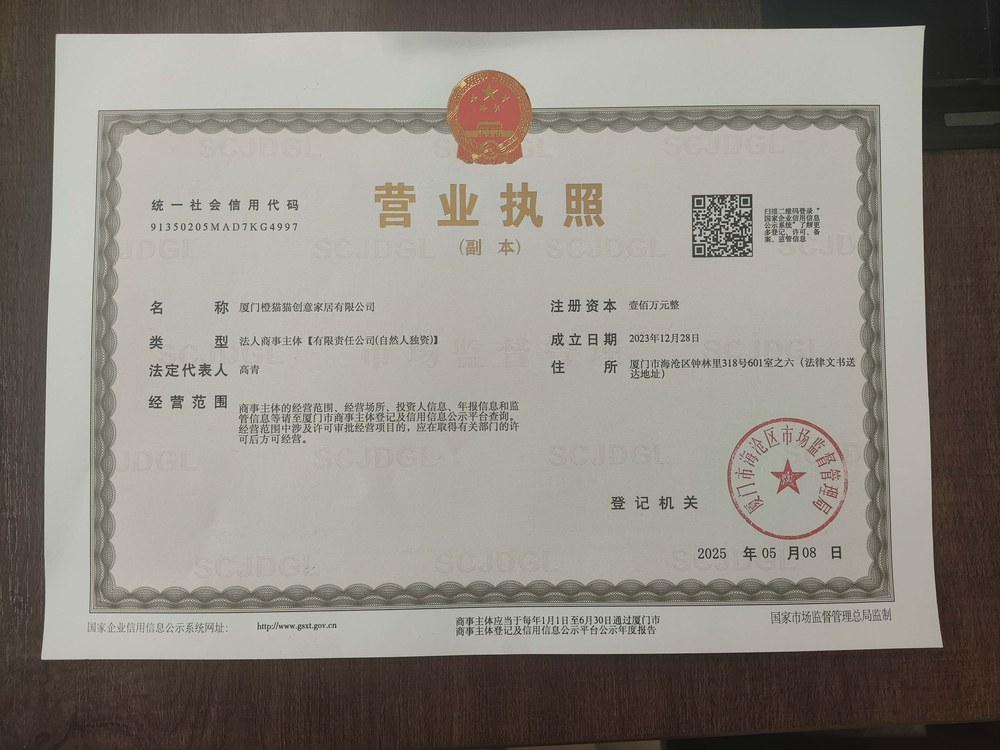
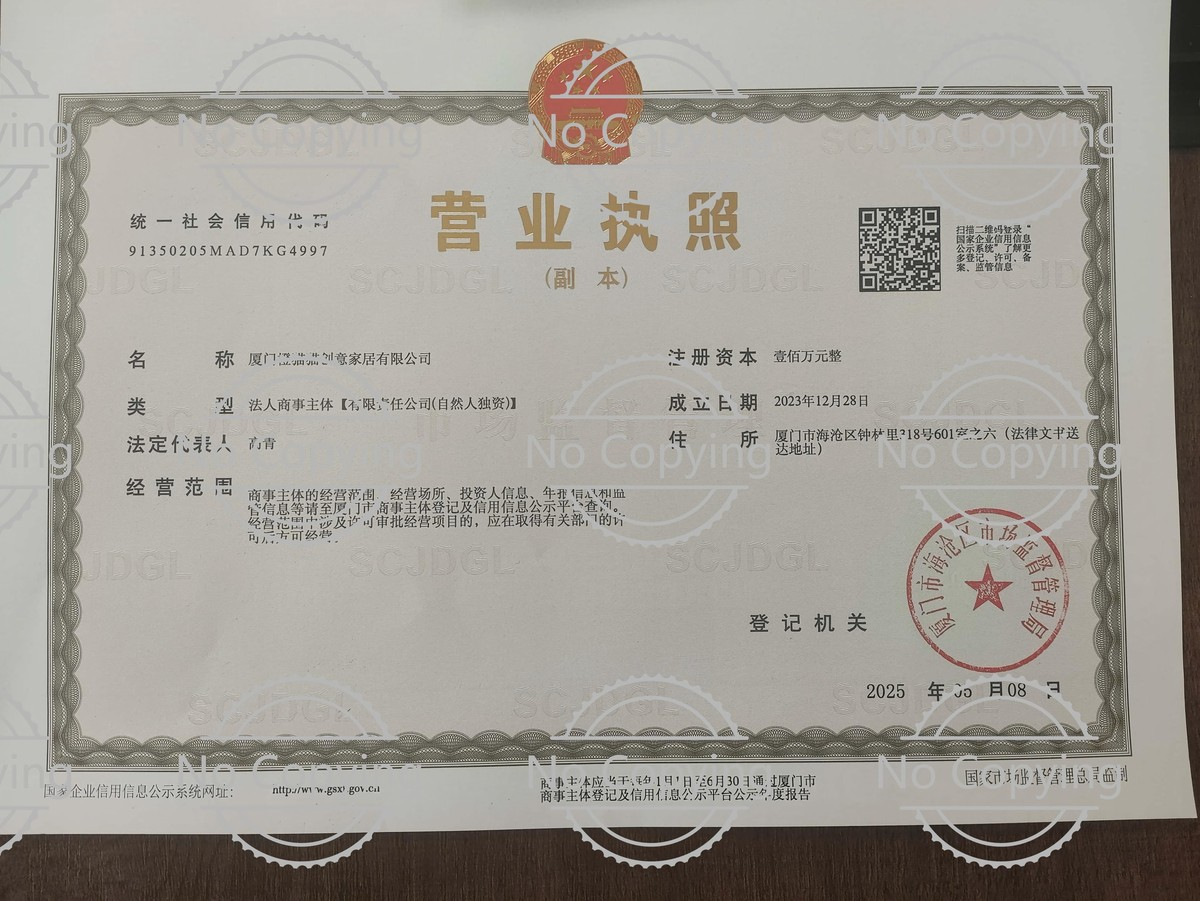
Replace hero and licence images

diff --git a/src/app/page.tsx b/src/app/page.tsx
@@ -24,7 +24,7 @@ export async function generateMetadata() {
     keywords:
       'quartz clock manufacturer, OEM clock factory, wholesale wall clocks, China clock supplier, custom quartz clocks',
     path: '/',
-    image: '/hero-clocks.png'
+    image: '/hero-clocks.jpg'
   });
 }
 
@@ -72,7 +72,7 @@ export default async function HomePage() {
               </p>
             </div>
             <div className="hero-img">
-              <img src="/hero-clocks.png" alt="Assorted quartz wall clocks manufactured by Badoudao" width={1536} height={1024} />
+              <img src="/hero-clocks.jpg" alt="Quartz wall clocks we manufacture: pendulum, wood, metal, resin and novelty designs" width={1400} height={788} />
             </div>
           </div>
         </section>
@@ -163,7 +163,7 @@ export default async function HomePage() {
               </p>
             </div>
             <div className="hero-img">
-              <img src="/hero-clocks.png" alt="Badoudao clock production" width={1536} height={1024} />
+              <img src="/workshop-floor.jpg" alt="Our assembly floor: staff fitting dials and movements before packing" width={1400} height={933} />
             </div>
           </div>
         </section>

diff --git a/scripts/replace-images.py b/scripts/replace-images.py
@@ -1,0 +1,155 @@
+"""
+Regenerate the site images from the originals in 资料/.
+
+    hero-clocks.jpg           the product hero on the home page
+    workshop-floor.jpg        the production-floor photo beside the QC list
+    business-license.jpg      the licence on the quality page
+
+All three are handled here rather than copied, because dropping a phone
+photo straight into public/ produces a file several times the size the
+site needs. The old hero was 1721 KB of PNG for a decorative band; a JPEG
+at the same pixel size is 134 KB and looks identical.
+
+The hero is 16:9 and the old file was 3:2, so it is resized rather than
+stretched — the layout crops with object-fit anyway, and a wrong aspect
+ratio shows up as a soft or distorted image on one screen size and not
+another.
+
+The workshop photo sits beside the manufacturing-capability list, so it
+has to be a photo of the floor rather than of the product. The hero and
+the workshop image are therefore different pictures that used to share one
+file, which is why the capability section no longer reuses the hero.
+
+The licence keeps its aspect ratio. It is a document: distorting it would
+make it look forged, and it is also the one image on the site that has to
+survive being read.
+
+Usage: python scripts/replace-images.py
+"""
+from PIL import Image, ImageOps
+import os
+
+HERO_SRC = (
+    "C:/Users/Administrator/.workbuddy/clipboard-images/"
+    "clipboard-2026-10-13T09-08-48-160Z-0d5d4d97.jpg"
+)
+LICENCE_SRC = "D:/website/workbuddy/资料/营业执照.jpg"
+WORKSHOP_SRC = "D:/website/workbuddy/资料/工厂实拍.MP4_20261013_000805.593.jpg"
+
+ROOT = os.path.dirname(os.path.dirname(os.path.abspath(__file__)))
+HERO_OUT = os.path.join(ROOT, "public", "hero-clocks.jpg")
+WORKSHOP_OUT = os.path.join(ROOT, "public", "workshop-floor.jpg")
+LICENCE_OUT = os.path.join(ROOT, "public", "media", "factory", "business-license.jpg")
+
+
+def write_hero():
+    """16:9, 1400px wide, JPEG.
+
+    The crop sits above centre. Centring a 16:9 window on a 16:10 source
+    puts the dark counter edge along the bottom, and a band of near-black
+    reads as a mistake rather than as a room.
+
+    1400px covers the layout's widest column at 2x without a phone on a
+    slow connection having to pull a megabyte for a decorative band.
+    """
+    im = Image.open(HERO_SRC)
+    im = ImageOps.exif_transpose(im).convert("RGB")
+
+    w, h = im.size
+    target_h = int(w * 9 / 16)
+
+    if target_h <= h:
+        # Bias upward: 0.25 keeps the shelf and the clocks, drops the
+        # counter front below it.
+        top = int((h - target_h) * 0.25)
+        im = im.crop((0, top, w, top + target_h))
+    else:
+        new_w = int(h * 16 / 9)
+        left = (w - new_w) // 2
+        im = im.crop((left, 0, left + new_w, h))
+
+    # 1400px covers the layout's widest column at 2x without a phone on a
+    # slow connection having to pull a megabyte for a decorative band.
+    im = im.resize((1400, 788), Image.LANCZOS)
+    im.save(HERO_OUT, "JPEG", quality=86, optimize=True, progressive=True)
+
+    return im.size, os.path.getsize(HERO_OUT) / 1024
+
+
+def write_workshop():
+    """3:4, from the video still that shows two people at the line.
+
+    3:2 because the capability section beside it is a text list, and a
+    taller photo balances a tall column better than a wide one. Same
+    reasoning as the licence for the crop: the subject is the people and
+    the bench, so the frame is cropped around the middle rather than by
+    contrast.
+    """
+    im = Image.open(WORKSHOP_SRC)
+    im = ImageOps.exif_transpose(im).convert("RGB")
+
+    w, h = im.size
+    target_h = int(w * 3 / 4)
+    top = int((h - target_h) * 0.42)
+    im = im.crop((0, top, w, top + target_h))
+
+    im = im.resize((1400, 933), Image.LANCZOS)
+    im.save(WORKSHOP_OUT, "JPEG", quality=86, optimize=True, progressive=True)
+
+    return im.size, os.path.getsize(WORKSHOP_OUT) / 1024
+
+
+def write_licence():
+    """Aspect ratio untouched, 1200px wide.
+
+    Wider than the 1000px used before because the watermark is part of what
+    makes this copy usable, and a smaller render makes the text harder to
+    read. Quality 90: compression artefacts on a document's fine print are
+    the one artefact a viewer would notice.
+    """
+    im = Image.open(LICENCE_SRC)
+    im = ImageOps.exif_transpose(im).convert("RGB")
+
+    # Crop the dark background around the paper. The photo was taken on a
+    # table and the border is 10% of the frame on each side at the
+    # bottom; showing it reads as a phone snapshot rather than a document.
+    im = _trim_around_document(im)
+
+    im = im.resize((1200, int(1200 * im.height / im.width)), Image.LANCZOS)
+    im.save(LICENCE_OUT, "JPEG", quality=90, optimize=True, progressive=True)
+
+    return im.size, os.path.getsize(LICENCE_OUT) / 1024
+
+
+def _trim_around_document(im, inset=0.055):
+    """Trim a uniform margin, keeping a small one.
+
+    Not a general border remover: it assumes the document is centred with
+    a fairly even border, which is what a photo taken straight down at a
+    sheet of A4 gives. A real edge detector would find the paper, but it
+    also finds the printed border inside the paper, which is not what is
+    wanted here.
+    """
+    w, h = im.size
+    dx = int(w * inset)
+    dy = int(h * inset)
+    return im.crop((dx, dy, w - dx, h - dy))
+
+
+if __name__ == "__main__":
+    if not os.path.exists(HERO_SRC):
+        print(f"找不到首页源图: {HERO_SRC}")
+        print("请确认剪贴板图片仍在，或把新图放到 资料/ 目录后修改此脚本的路径。")
+        raise SystemExit(1)
+
+    print("=== 首页主图 ===")
+    size, kb = write_hero()
+    print("  %-22s %dx%d  %4.0fKB" % ("hero-clocks.jpg", size[0], size[1], kb))
+
+    print("\n=== 车间实拍（生产能力区）===")
+    size, kb = write_workshop()
+    print("  %-22s %dx%d  %4.0fKB" % ("workshop-floor.jpg", size[0], size[1], kb))
+
+    print("\n=== 营业执照 ===")
+    size, kb = write_licence()
+    print("  %-22s %dx%d  %4.0fKB" % ("business-license.jpg", size[0], size[1], kb))
